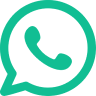
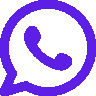
troca de cores

diff --git a/src/output.css b/src/output.css
@@ -34,7 +34,7 @@
     --default-font-family: var(--font-sans);
     --default-mono-font-family: var(--font-mono);
     --color-main: #5d1ee6;
-    --color-secondary: #6d63f7;
+    --color-secondary: #2c94f5;
     --color-gray: #546066;
     --font-main: "Poppins", sans-serif;
   }
@@ -194,9 +194,6 @@
   .hidden {
     display: none;
   }
-  .table {
-    display: table;
-  }
   .size-8 {
     width: calc(var(--spacing) * 8);
     height: calc(var(--spacing) * 8);
@@ -209,35 +206,17 @@
     width: calc(var(--spacing) * 16);
     height: calc(var(--spacing) * 16);
   }
-  .h-1 {
-    height: calc(var(--spacing) * 1);
-  }
   .h-1\/4 {
     height: calc(1/4 * 100%);
   }
-  .h-3 {
-    height: calc(var(--spacing) * 3);
-  }
   .h-3\/4 {
     height: calc(3/4 * 100%);
-  }
-  .h-screen {
-    height: 100vh;
   }
   .max-h-\[400px\] {
     max-height: 400px;
   }
   .min-h-screen {
     min-height: 100vh;
-  }
-  .w-1 {
-    width: calc(var(--spacing) * 1);
-  }
-  .w-1\/3 {
-    width: calc(1/3 * 100%);
-  }
-  .max-w-3 {
-    max-width: calc(var(--spacing) * 3);
   }
   .max-w-3\/4 {
     max-width: calc(3/4 * 100%);
@@ -250,12 +229,6 @@
   }
   .max-w-\[400px\] {
     max-width: 400px;
-  }
-  .border-collapse {
-    border-collapse: collapse;
-  }
-  .resize {
-    resize: both;
   }
   .grid-flow-row {
     grid-auto-flow: row;
@@ -271,9 +244,6 @@
   }
   .items-center {
     align-items: center;
-  }
-  .items-start {
-    align-items: flex-start;
   }
   .justify-between {
     justify-content: space-between;
@@ -302,18 +272,11 @@
   .overflow-hidden {
     overflow: hidden;
   }
-  .rounded {
-    border-radius: 0.25rem;
-  }
   .rounded-2xl {
     border-radius: var(--radius-2xl);
   }
   .rounded-lg {
     border-radius: var(--radius-lg);
-  }
-  .border {
-    border-style: var(--tw-border-style);
-    border-width: 1px;
   }
   .bg-black {
     background-color: var(--color-black);
@@ -404,24 +367,9 @@
   .text-white {
     color: var(--color-white);
   }
-  .underline {
-    text-decoration-line: underline;
-  }
-  .outline {
-    outline-style: var(--tw-outline-style);
-    outline-width: 1px;
-  }
-  .drop-shadow {
-    --tw-drop-shadow-size: drop-shadow(0 1px 2px var(--tw-drop-shadow-color, rgb(0 0 0 / 0.1))) drop-shadow(0 1px 1px var(--tw-drop-shadow-color, rgb(0 0 0 / 0.06)));
-    --tw-drop-shadow: drop-shadow(0 1px 2px rgb(0 0 0 / 0.1)) drop-shadow( 0 1px 1px rgb(0 0 0 / 0.06));
-    filter: var(--tw-blur,) var(--tw-brightness,) var(--tw-contrast,) var(--tw-grayscale,) var(--tw-hue-rotate,) var(--tw-invert,) var(--tw-saturate,) var(--tw-sepia,) var(--tw-drop-shadow,);
-  }
   .drop-shadow-lg {
     --tw-drop-shadow-size: drop-shadow(0 4px 4px var(--tw-drop-shadow-color, rgb(0 0 0 / 0.15)));
     --tw-drop-shadow: drop-shadow(var(--drop-shadow-lg));
-    filter: var(--tw-blur,) var(--tw-brightness,) var(--tw-contrast,) var(--tw-grayscale,) var(--tw-hue-rotate,) var(--tw-invert,) var(--tw-saturate,) var(--tw-sepia,) var(--tw-drop-shadow,);
-  }
-  .filter {
     filter: var(--tw-blur,) var(--tw-brightness,) var(--tw-contrast,) var(--tw-grayscale,) var(--tw-hue-rotate,) var(--tw-invert,) var(--tw-saturate,) var(--tw-sepia,) var(--tw-drop-shadow,);
   }
   .transition {
@@ -462,11 +410,6 @@
       display: none;
     }
   }
-  .lg\:max-h-\[600px\] {
-    @media (width >= 64rem) {
-      max-height: 600px;
-    }
-  }
   .lg\:max-h-\[700px\] {
     @media (width >= 64rem) {
       max-height: 700px;
@@ -487,19 +430,9 @@
       max-width: 560px;
     }
   }
-  .lg\:max-w-\[600px\] {
-    @media (width >= 64rem) {
-      max-width: 600px;
-    }
-  }
   .lg\:max-w-\[700px\] {
     @media (width >= 64rem) {
       max-width: 700px;
-    }
-  }
-  .lg\:max-w-\[px\] {
-    @media (width >= 64rem) {
-      max-width: px;
     }
   }
   .lg\:grid-cols-3 {
@@ -542,11 +475,6 @@
       gap: calc(var(--spacing) * 2);
     }
   }
-  .lg\:gap-4 {
-    @media (width >= 64rem) {
-      gap: calc(var(--spacing) * 4);
-    }
-  }
   .lg\:gap-8 {
     @media (width >= 64rem) {
       gap: calc(var(--spacing) * 8);
@@ -562,30 +490,15 @@
       padding-inline: calc(var(--spacing) * 30);
     }
   }
-  .lg\:px-\[120px\] {
-    @media (width >= 64rem) {
-      padding-inline: 120px;
-    }
-  }
   .lg\:text-start {
     @media (width >= 64rem) {
       text-align: start;
     }
   }
 }
-@property --tw-border-style {
-  syntax: "*";
-  inherits: false;
-  initial-value: solid;
-}
 @property --tw-font-weight {
   syntax: "*";
   inherits: false;
-}
-@property --tw-outline-style {
-  syntax: "*";
-  inherits: false;
-  initial-value: solid;
 }
 @property --tw-blur {
   syntax: "*";
@@ -647,9 +560,7 @@
 @layer properties {
   @supports ((-webkit-hyphens: none) and (not (margin-trim: inline))) or ((-moz-orient: inline) and (not (color:rgb(from red r g b)))) {
     *, ::before, ::after, ::backdrop {
-      --tw-border-style: solid;
       --tw-font-weight: initial;
-      --tw-outline-style: solid;
       --tw-blur: initial;
       --tw-brightness: initial;
       --tw-contrast: initial;

diff --git a/src/input.css b/src/input.css
@@ -4,7 +4,7 @@
 
 @theme {
     --color-main: #5d1ee6;
-    --color-secondary: #6d63f7;
+    --color-secondary: #2c94f5;
     --color-black: #13181A;
     --color-white: #F8F8F8;
     --color-gray: #546066;
